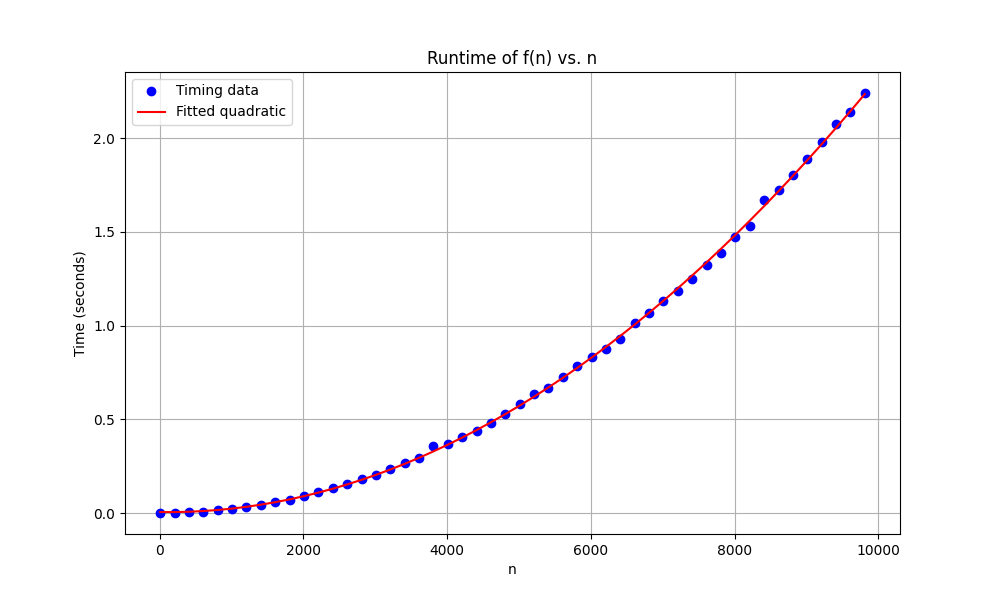
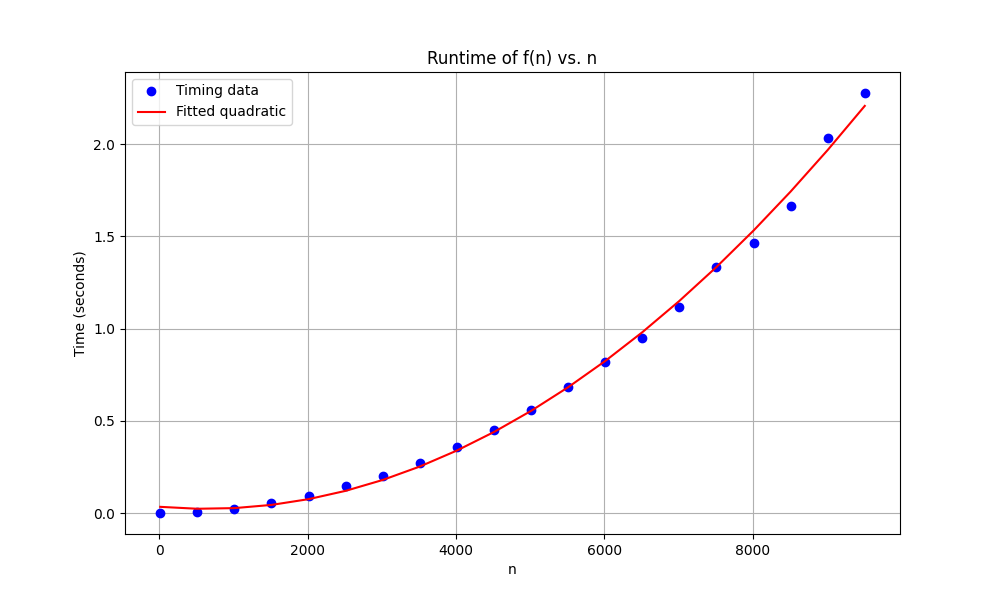
q4&5

diff --git a/HW3/plot_2.py b/HW3/plot_2.py
@@ -5,9 +5,11 @@ from scipy.optimize import curve_fit
 
 def f(n):
     x = 1
+    y = 1
     for i in range(1, n+1):
         for j in range(1, n+1):
             x = x + 1
+            y = i + j
     return x
 
 
@@ -36,4 +38,3 @@ plt.title('Runtime of f(n) vs. n')
 plt.legend()
 plt.grid(True)
 plt.show()
-

diff --git a/HW3/README.md b/HW3/README.md
@@ -22,3 +22,20 @@ $T(n) = 1 + n^2$ and time complexity is $\theta(n^2)$
     * Upper Bound: $T(n) 1 + n^2 ≤ 2n^2, n ≥ 1$ Thus upper bound is $O(n^2)$
     * Given upper and lowerbound, we can get $\theta(n^2)$
 
+4. I believe the $n_0 ≥ 525$ which is the second dot on the graph 
+
+```python
+x = f(n)
+   x = 1;
+   y = 1;
+   for i = 1:n
+        for j = 1:n
+            x = x + 1;
+            y = i + j;
+```
+4. Yes, it took around 3.5 sec for this updated code to run instead of 2.4 sec in the original version
+![Runtime of f(n) vs n v2](./runtime_plot_2.png)
+
+
+5. No, the algorithm is still $\theta(n^2)$
+
